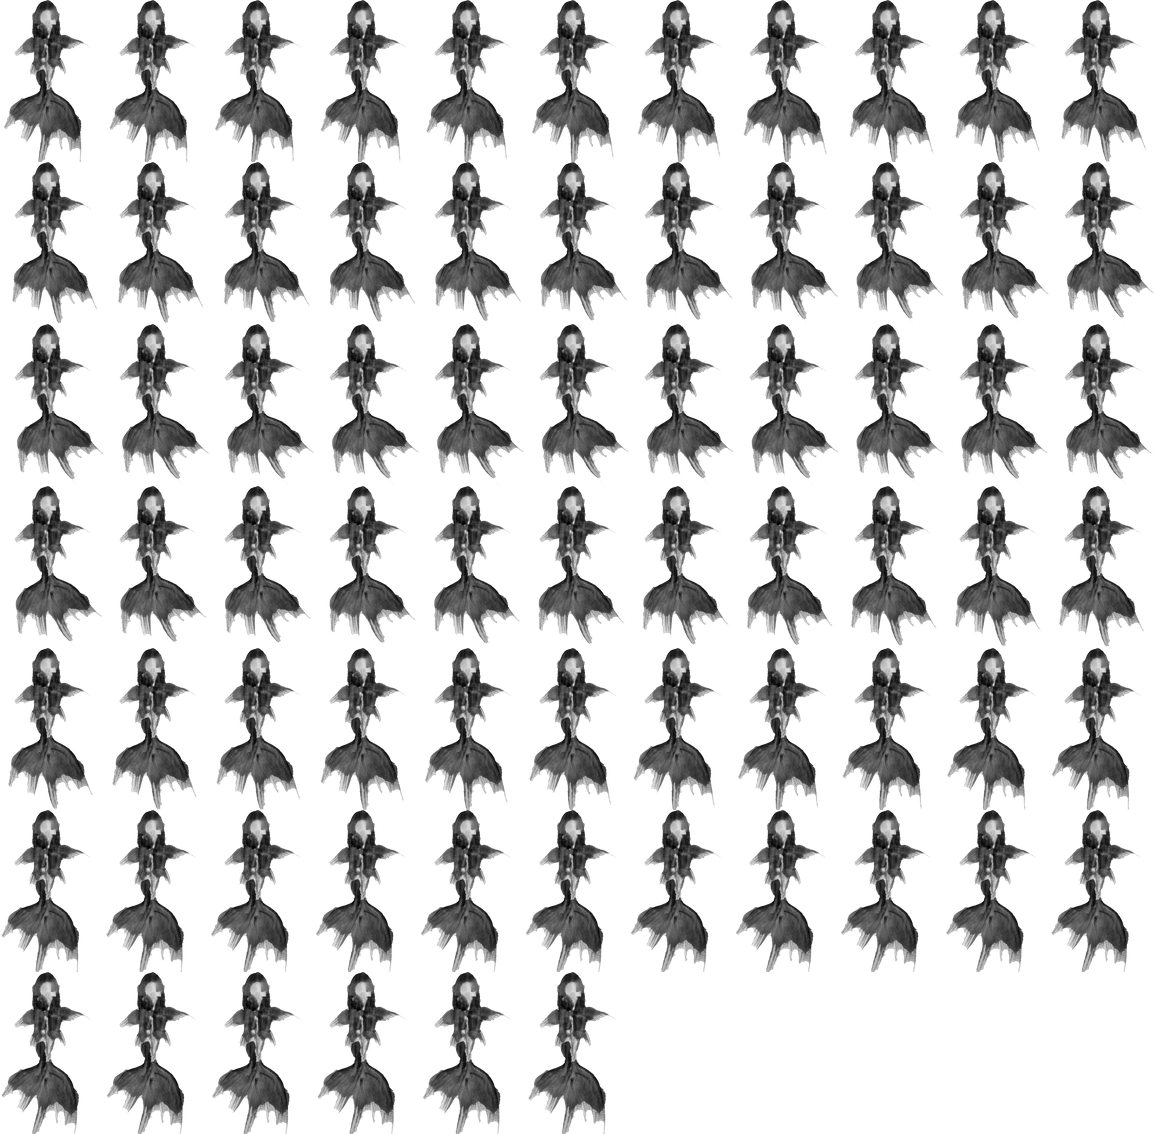
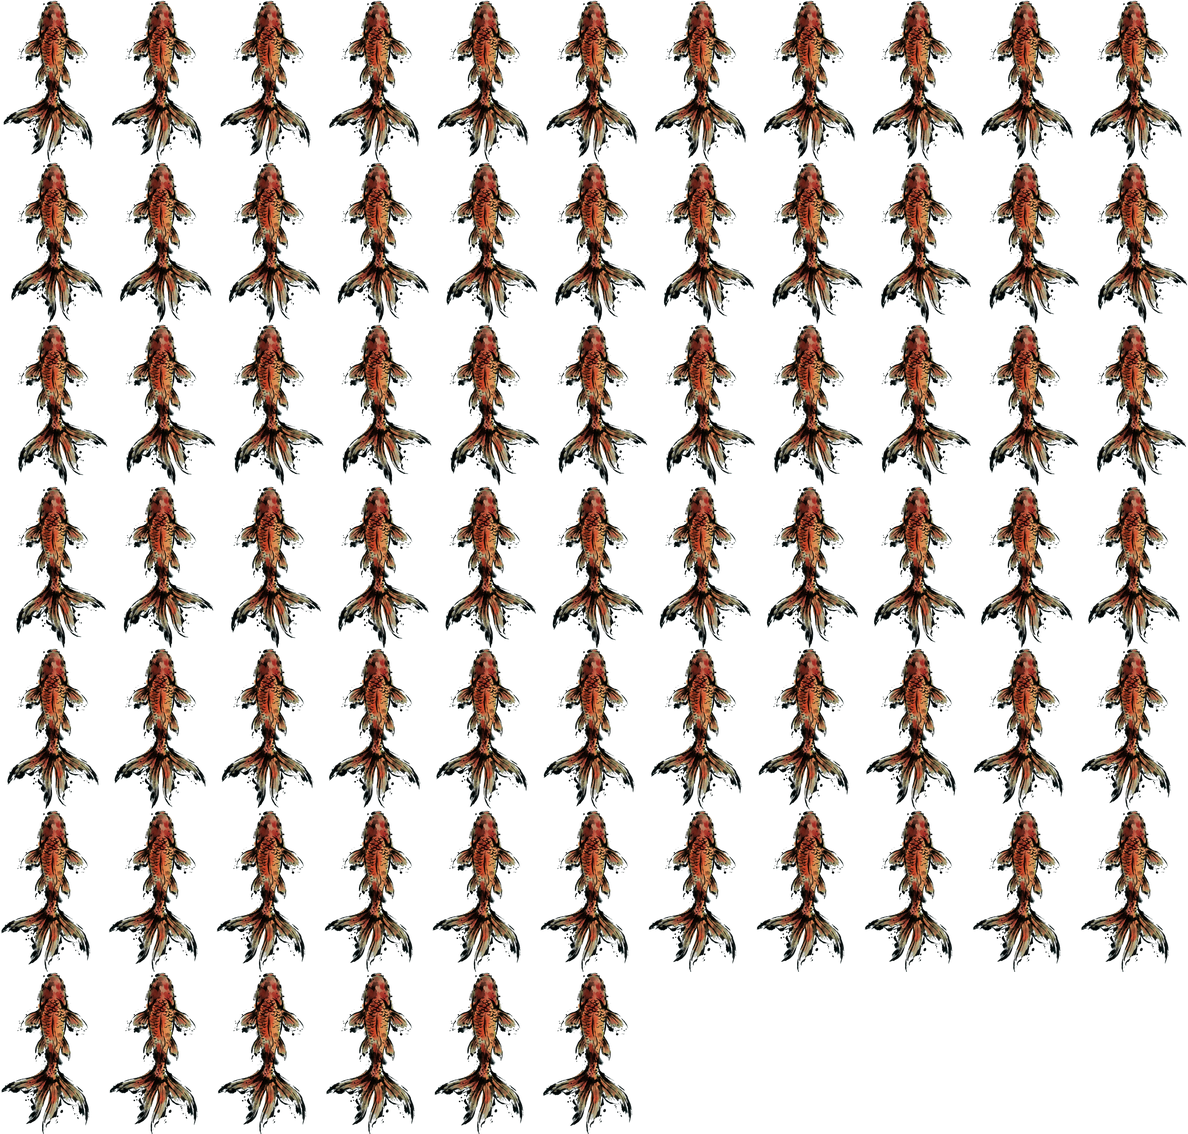
07 그룹3 소스 교체: soomook.jpg(흑백 먹) → soomook_2.png(컬러 수묵 코이, 초록 크로마 키) (ASSET_VER=44, v=90)

diff --git a/07_water_trace_goldfish/app.js b/07_water_trace_goldfish/app.js
@@ -27,7 +27,7 @@
   // 배경 데이터 절대 경로 = fractal_capture 폴더 (bg_build.py 가 assets/bg/ 로 최적화 복사 +
   //   assets/bg-manifest.json 생성). 앱은 매니페스트의 모든 이미지를 이름순 크로스페이드 재생.
   //   동영상(manifest.videos)은 V 키로 영상 배경 토글.  bg 갱신 시 BG_VER 올려 캐시 무효화.
-  const ASSET_VER = "43";   // 그룹3 수묵(goldfish-swim-g3) 추가
+  const ASSET_VER = "44";   // 그룹3 수묵 소스 교체(soomook_2, 컬러 코이)
   const BG_VER = "4";
   let SLIDE_HOLD_MS = 0;               // 각 장면 추가 표시 시간(▲/▼ 방향키 ±1초, 기본 0초)
   const SLIDE_FADE_MS = 1600;          // 크로스페이드 시간

diff --git a/07_water_trace_goldfish/index.html b/07_water_trace_goldfish/index.html
@@ -102,6 +102,6 @@
   })();
   </script>
 
-  <script src="app.js?v=89"></script>
+  <script src="app.js?v=90"></script>
 </body>
 </html>
